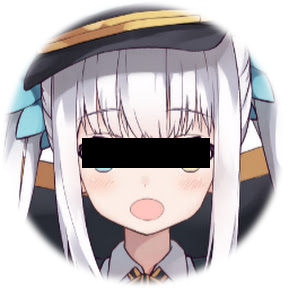
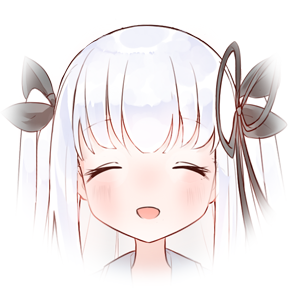
素材替换

diff --git a/src/Container.vue b/src/Container.vue
@@ -3,38 +3,107 @@
     <el-header style="text-align: right;">
       <div class="side-logo"></div>
       <a href="https://afdian.net/@aliceliveman" class="patron" target="_black">
-          <img src="./assets/mea.png" class="mea" width="48" height="48"/>
-          <span>你好，<br/>我很可爱！</span>
+        <img src="./assets/mea.png" class="mea" width="60" height="60">
+        <span>你好，
+          <br>我很可爱！
+        </span>
       </a>
       <a href="https://vtuber.magictea.cc/" class="patron" target="_black">
-          <img src="./assets/magictea.png" height="54"/>
+        <img src="./assets/magictea.png" height="54">
       </a>
       <!-- <a href="https://www.vultr.com/?ref=7654882" class="patron" target="_black" ><img src="./assets/vultr.png" height="54"></a> -->
       <span>{{account.nickname}}</span>
       <a href="javascript:" title="登出" @click="logout" style="color:#333;">
-        <svg viewBox="0 0 512 512" version="1.1" width="16" height="16" aria-hidden="true"><path fill="currentColor" d="M497 273L329 441c-15 15-41 4.5-41-17v-96H152c-13.3 0-24-10.7-24-24v-96c0-13.3 10.7-24 24-24h136V88c0-21.4 25.9-32 41-17l168 168c9.3 9.4 9.3 24.6 0 34zM192 436v-40c0-6.6-5.4-12-12-12H96c-17.7 0-32-14.3-32-32V160c0-17.7 14.3-32 32-32h84c6.6 0 12-5.4 12-12V76c0-6.6-5.4-12-12-12H96c-53 0-96 43-96 96v192c0 53 43 96 96 96h84c6.6 0 12-5.4 12-12z"></path></svg>
+        <svg viewBox="0 0 512 512" version="1.1" width="16" height="16" aria-hidden="true">
+          <path
+            fill="currentColor"
+            d="M497 273L329 441c-15 15-41 4.5-41-17v-96H152c-13.3 0-24-10.7-24-24v-96c0-13.3 10.7-24 24-24h136V88c0-21.4 25.9-32 41-17l168 168c9.3 9.4 9.3 24.6 0 34zM192 436v-40c0-6.6-5.4-12-12-12H96c-17.7 0-32-14.3-32-32V160c0-17.7 14.3-32 32-32h84c6.6 0 12-5.4 12-12V76c0-6.6-5.4-12-12-12H96c-53 0-96 43-96 96v192c0 53 43 96 96 96h84c6.6 0 12-5.4 12-12z"
+          ></path>
+        </svg>
       </a>
     </el-header>
     <el-container style="background:#333;height: 100%;">
       <el-aside width="200px">
-        <el-menu router :default-active="$route.path" background-color="#333" text-color="rgba(255, 255, 255, 0.65)" active-text-color="#fff">
-          <el-menu-item index="/main/broadcast"><svg aria-hidden="true" viewBox="0 0 640 512" version="1.1" width="16" height="16"><path fill="currentColor" d="M150.94 192h33.73c11.01 0 18.61-10.83 14.86-21.18-4.93-13.58-7.55-27.98-7.55-42.82s2.62-29.24 7.55-42.82C203.29 74.83 195.68 64 184.67 64h-33.73c-7.01 0-13.46 4.49-15.41 11.23C130.64 92.21 128 109.88 128 128c0 18.12 2.64 35.79 7.54 52.76 1.94 6.74 8.39 11.24 15.4 11.24zM89.92 23.34C95.56 12.72 87.97 0 75.96 0H40.63c-6.27 0-12.14 3.59-14.74 9.31C9.4 45.54 0 85.65 0 128c0 24.75 3.12 68.33 26.69 118.86 2.62 5.63 8.42 9.14 14.61 9.14h34.84c12.02 0 19.61-12.74 13.95-23.37-49.78-93.32-16.71-178.15-.17-209.29zM614.06 9.29C611.46 3.58 605.6 0 599.33 0h-35.42c-11.98 0-19.66 12.66-14.02 23.25 18.27 34.29 48.42 119.42.28 209.23-5.72 10.68 1.8 23.52 13.91 23.52h35.23c6.27 0 12.13-3.58 14.73-9.29C630.57 210.48 640 170.36 640 128s-9.42-82.48-25.94-118.71zM489.06 64h-33.73c-11.01 0-18.61 10.83-14.86 21.18 4.93 13.58 7.55 27.98 7.55 42.82s-2.62 29.24-7.55 42.82c-3.76 10.35 3.85 21.18 14.86 21.18h33.73c7.02 0 13.46-4.49 15.41-11.24 4.9-16.97 7.53-34.64 7.53-52.76 0-18.12-2.64-35.79-7.54-52.76-1.94-6.75-8.39-11.24-15.4-11.24zm-116.3 100.12c7.05-10.29 11.2-22.71 11.2-36.12 0-35.35-28.63-64-63.96-64-35.32 0-63.96 28.65-63.96 64 0 13.41 4.15 25.83 11.2 36.12l-130.5 313.41c-3.4 8.15.46 17.52 8.61 20.92l29.51 12.31c8.15 3.4 17.52-.46 20.91-8.61L244.96 384h150.07l49.2 118.15c3.4 8.16 12.76 12.01 20.91 8.61l29.51-12.31c8.15-3.4 12-12.77 8.61-20.92l-130.5-313.41zM271.62 320L320 203.81 368.38 320h-96.76z"></path></svg><span>推流任务</span></el-menu-item>
-          <el-menu-item index="/main/channel"><svg aria-hidden="true" viewBox="0 0 576 512" version="1.1" width="16" height="16"><path fill="currentColor" d="M549.655 124.083c-6.281-23.65-24.787-42.276-48.284-48.597C458.781 64 288 64 288 64S117.22 64 74.629 75.486c-23.497 6.322-42.003 24.947-48.284 48.597-11.412 42.867-11.412 132.305-11.412 132.305s0 89.438 11.412 132.305c6.281 23.65 24.787 41.5 48.284 47.821C117.22 448 288 448 288 448s170.78 0 213.371-11.486c23.497-6.321 42.003-24.171 48.284-47.821 11.412-42.867 11.412-132.305 11.412-132.305s0-89.438-11.412-132.305zm-317.51 213.508V175.185l142.739 81.205-142.739 81.201z"></path></svg><span>频道管理</span></el-menu-item>
-          <el-menu-item index="/main/account"><svg aria-hidden="true" viewBox="0 0 576 512" version="1.1" width="16" height="16"><path fill="currentColor" d="M528 32H48C21.5 32 0 53.5 0 80v352c0 26.5 21.5 48 48 48h480c26.5 0 48-21.5 48-48V80c0-26.5-21.5-48-48-48zm0 400H48V80h480v352zM208 256c35.3 0 64-28.7 64-64s-28.7-64-64-64-64 28.7-64 64 28.7 64 64 64zm-89.6 128h179.2c12.4 0 22.4-8.6 22.4-19.2v-19.2c0-31.8-30.1-57.6-67.2-57.6-10.8 0-18.7 8-44.8 8-26.9 0-33.4-8-44.8-8-37.1 0-67.2 25.8-67.2 57.6v19.2c0 10.6 10 19.2 22.4 19.2zM360 320h112c4.4 0 8-3.6 8-8v-16c0-4.4-3.6-8-8-8H360c-4.4 0-8 3.6-8 8v16c0 4.4 3.6 8 8 8zm0-64h112c4.4 0 8-3.6 8-8v-16c0-4.4-3.6-8-8-8H360c-4.4 0-8 3.6-8 8v16c0 4.4 3.6 8 8 8zm0-64h112c4.4 0 8-3.6 8-8v-16c0-4.4-3.6-8-8-8H360c-4.4 0-8 3.6-8 8v16c0 4.4 3.6 8 8 8z"></path></svg><span>账号管理</span></el-menu-item>
-          <el-menu-item v-if="account.admin" index="/main/system"><svg aria-hidden="true" viewBox="0 0 640 512" version="1.1" width="16" height="16"><path fill="currentColor" d="M512.1 191l-8.2 14.3c-3 5.3-9.4 7.5-15.1 5.4-11.8-4.4-22.6-10.7-32.1-18.6-4.6-3.8-5.8-10.5-2.8-15.7l8.2-14.3c-6.9-8-12.3-17.3-15.9-27.4h-16.5c-6 0-11.2-4.3-12.2-10.3-2-12-2.1-24.6 0-37.1 1-6 6.2-10.4 12.2-10.4h16.5c3.6-10.1 9-19.4 15.9-27.4l-8.2-14.3c-3-5.2-1.9-11.9 2.8-15.7 9.5-7.9 20.4-14.2 32.1-18.6 5.7-2.1 12.1.1 15.1 5.4l8.2 14.3c10.5-1.9 21.2-1.9 31.7 0L552 6.3c3-5.3 9.4-7.5 15.1-5.4 11.8 4.4 22.6 10.7 32.1 18.6 4.6 3.8 5.8 10.5 2.8 15.7l-8.2 14.3c6.9 8 12.3 17.3 15.9 27.4h16.5c6 0 11.2 4.3 12.2 10.3 2 12 2.1 24.6 0 37.1-1 6-6.2 10.4-12.2 10.4h-16.5c-3.6 10.1-9 19.4-15.9 27.4l8.2 14.3c3 5.2 1.9 11.9-2.8 15.7-9.5 7.9-20.4 14.2-32.1 18.6-5.7 2.1-12.1-.1-15.1-5.4l-8.2-14.3c-10.4 1.9-21.2 1.9-31.7 0zm-10.5-58.8c38.5 29.6 82.4-14.3 52.8-52.8-38.5-29.7-82.4 14.3-52.8 52.8zM386.3 286.1l33.7 16.8c10.1 5.8 14.5 18.1 10.5 29.1-8.9 24.2-26.4 46.4-42.6 65.8-7.4 8.9-20.2 11.1-30.3 5.3l-29.1-16.8c-16 13.7-34.6 24.6-54.9 31.7v33.6c0 11.6-8.3 21.6-19.7 23.6-24.6 4.2-50.4 4.4-75.9 0-11.5-2-20-11.9-20-23.6V418c-20.3-7.2-38.9-18-54.9-31.7L74 403c-10 5.8-22.9 3.6-30.3-5.3-16.2-19.4-33.3-41.6-42.2-65.7-4-10.9.4-23.2 10.5-29.1l33.3-16.8c-3.9-20.9-3.9-42.4 0-63.4L12 205.8c-10.1-5.8-14.6-18.1-10.5-29 8.9-24.2 26-46.4 42.2-65.8 7.4-8.9 20.2-11.1 30.3-5.3l29.1 16.8c16-13.7 34.6-24.6 54.9-31.7V57.1c0-11.5 8.2-21.5 19.6-23.5 24.6-4.2 50.5-4.4 76-.1 11.5 2 20 11.9 20 23.6v33.6c20.3 7.2 38.9 18 54.9 31.7l29.1-16.8c10-5.8 22.9-3.6 30.3 5.3 16.2 19.4 33.2 41.6 42.1 65.8 4 10.9.1 23.2-10 29.1l-33.7 16.8c3.9 21 3.9 42.5 0 63.5zm-117.6 21.1c59.2-77-28.7-164.9-105.7-105.7-59.2 77 28.7 164.9 105.7 105.7zm243.4 182.7l-8.2 14.3c-3 5.3-9.4 7.5-15.1 5.4-11.8-4.4-22.6-10.7-32.1-18.6-4.6-3.8-5.8-10.5-2.8-15.7l8.2-14.3c-6.9-8-12.3-17.3-15.9-27.4h-16.5c-6 0-11.2-4.3-12.2-10.3-2-12-2.1-24.6 0-37.1 1-6 6.2-10.4 12.2-10.4h16.5c3.6-10.1 9-19.4 15.9-27.4l-8.2-14.3c-3-5.2-1.9-11.9 2.8-15.7 9.5-7.9 20.4-14.2 32.1-18.6 5.7-2.1 12.1.1 15.1 5.4l8.2 14.3c10.5-1.9 21.2-1.9 31.7 0l8.2-14.3c3-5.3 9.4-7.5 15.1-5.4 11.8 4.4 22.6 10.7 32.1 18.6 4.6 3.8 5.8 10.5 2.8 15.7l-8.2 14.3c6.9 8 12.3 17.3 15.9 27.4h16.5c6 0 11.2 4.3 12.2 10.3 2 12 2.1 24.6 0 37.1-1 6-6.2 10.4-12.2 10.4h-16.5c-3.6 10.1-9 19.4-15.9 27.4l8.2 14.3c3 5.2 1.9 11.9-2.8 15.7-9.5 7.9-20.4 14.2-32.1 18.6-5.7 2.1-12.1-.1-15.1-5.4l-8.2-14.3c-10.4 1.9-21.2 1.9-31.7 0zM501.6 431c38.5 29.6 82.4-14.3 52.8-52.8-38.5-29.6-82.4 14.3-52.8 52.8z"></path></svg><span>系统设置</span></el-menu-item>
-          <el-menu-item v-if="account.admin" index="/main/server"><svg aria-hidden="true" viewBox="0 0 512 512" version="1.1" width="16" height="16"><path fill="currentColor" d="M480 160H32c-17.673 0-32-14.327-32-32V64c0-17.673 14.327-32 32-32h448c17.673 0 32 14.327 32 32v64c0 17.673-14.327 32-32 32zm-48-88c-13.255 0-24 10.745-24 24s10.745 24 24 24 24-10.745 24-24-10.745-24-24-24zm-64 0c-13.255 0-24 10.745-24 24s10.745 24 24 24 24-10.745 24-24-10.745-24-24-24zm112 248H32c-17.673 0-32-14.327-32-32v-64c0-17.673 14.327-32 32-32h448c17.673 0 32 14.327 32 32v64c0 17.673-14.327 32-32 32zm-48-88c-13.255 0-24 10.745-24 24s10.745 24 24 24 24-10.745 24-24-10.745-24-24-24zm-64 0c-13.255 0-24 10.745-24 24s10.745 24 24 24 24-10.745 24-24-10.745-24-24-24zm112 248H32c-17.673 0-32-14.327-32-32v-64c0-17.673 14.327-32 32-32h448c17.673 0 32 14.327 32 32v64c0 17.673-14.327 32-32 32zm-48-88c-13.255 0-24 10.745-24 24s10.745 24 24 24 24-10.745 24-24-10.745-24-24-24zm-64 0c-13.255 0-24 10.745-24 24s10.745 24 24 24 24-10.745 24-24-10.745-24-24-24z"></path></svg><span>转播服务器管理</span></el-menu-item>
+        <el-menu
+          router
+          :default-active="$route.path"
+          background-color="#333"
+          text-color="rgba(255, 255, 255, 0.65)"
+          active-text-color="#fff"
+        >
+          <el-menu-item index="/main/broadcast">
+            <svg aria-hidden="true" viewBox="0 0 640 512" version="1.1" width="16" height="16">
+              <path
+                fill="currentColor"
+                d="M150.94 192h33.73c11.01 0 18.61-10.83 14.86-21.18-4.93-13.58-7.55-27.98-7.55-42.82s2.62-29.24 7.55-42.82C203.29 74.83 195.68 64 184.67 64h-33.73c-7.01 0-13.46 4.49-15.41 11.23C130.64 92.21 128 109.88 128 128c0 18.12 2.64 35.79 7.54 52.76 1.94 6.74 8.39 11.24 15.4 11.24zM89.92 23.34C95.56 12.72 87.97 0 75.96 0H40.63c-6.27 0-12.14 3.59-14.74 9.31C9.4 45.54 0 85.65 0 128c0 24.75 3.12 68.33 26.69 118.86 2.62 5.63 8.42 9.14 14.61 9.14h34.84c12.02 0 19.61-12.74 13.95-23.37-49.78-93.32-16.71-178.15-.17-209.29zM614.06 9.29C611.46 3.58 605.6 0 599.33 0h-35.42c-11.98 0-19.66 12.66-14.02 23.25 18.27 34.29 48.42 119.42.28 209.23-5.72 10.68 1.8 23.52 13.91 23.52h35.23c6.27 0 12.13-3.58 14.73-9.29C630.57 210.48 640 170.36 640 128s-9.42-82.48-25.94-118.71zM489.06 64h-33.73c-11.01 0-18.61 10.83-14.86 21.18 4.93 13.58 7.55 27.98 7.55 42.82s-2.62 29.24-7.55 42.82c-3.76 10.35 3.85 21.18 14.86 21.18h33.73c7.02 0 13.46-4.49 15.41-11.24 4.9-16.97 7.53-34.64 7.53-52.76 0-18.12-2.64-35.79-7.54-52.76-1.94-6.75-8.39-11.24-15.4-11.24zm-116.3 100.12c7.05-10.29 11.2-22.71 11.2-36.12 0-35.35-28.63-64-63.96-64-35.32 0-63.96 28.65-63.96 64 0 13.41 4.15 25.83 11.2 36.12l-130.5 313.41c-3.4 8.15.46 17.52 8.61 20.92l29.51 12.31c8.15 3.4 17.52-.46 20.91-8.61L244.96 384h150.07l49.2 118.15c3.4 8.16 12.76 12.01 20.91 8.61l29.51-12.31c8.15-3.4 12-12.77 8.61-20.92l-130.5-313.41zM271.62 320L320 203.81 368.38 320h-96.76z"
+              ></path>
+            </svg>
+            <span>推流任务</span>
+          </el-menu-item>
+          <el-menu-item index="/main/channel">
+            <svg aria-hidden="true" viewBox="0 0 576 512" version="1.1" width="16" height="16">
+              <path
+                fill="currentColor"
+                d="M549.655 124.083c-6.281-23.65-24.787-42.276-48.284-48.597C458.781 64 288 64 288 64S117.22 64 74.629 75.486c-23.497 6.322-42.003 24.947-48.284 48.597-11.412 42.867-11.412 132.305-11.412 132.305s0 89.438 11.412 132.305c6.281 23.65 24.787 41.5 48.284 47.821C117.22 448 288 448 288 448s170.78 0 213.371-11.486c23.497-6.321 42.003-24.171 48.284-47.821 11.412-42.867 11.412-132.305 11.412-132.305s0-89.438-11.412-132.305zm-317.51 213.508V175.185l142.739 81.205-142.739 81.201z"
+              ></path>
+            </svg>
+            <span>频道管理</span>
+          </el-menu-item>
+          <el-menu-item index="/main/account">
+            <svg aria-hidden="true" viewBox="0 0 576 512" version="1.1" width="16" height="16">
+              <path
+                fill="currentColor"
+                d="M528 32H48C21.5 32 0 53.5 0 80v352c0 26.5 21.5 48 48 48h480c26.5 0 48-21.5 48-48V80c0-26.5-21.5-48-48-48zm0 400H48V80h480v352zM208 256c35.3 0 64-28.7 64-64s-28.7-64-64-64-64 28.7-64 64 28.7 64 64 64zm-89.6 128h179.2c12.4 0 22.4-8.6 22.4-19.2v-19.2c0-31.8-30.1-57.6-67.2-57.6-10.8 0-18.7 8-44.8 8-26.9 0-33.4-8-44.8-8-37.1 0-67.2 25.8-67.2 57.6v19.2c0 10.6 10 19.2 22.4 19.2zM360 320h112c4.4 0 8-3.6 8-8v-16c0-4.4-3.6-8-8-8H360c-4.4 0-8 3.6-8 8v16c0 4.4 3.6 8 8 8zm0-64h112c4.4 0 8-3.6 8-8v-16c0-4.4-3.6-8-8-8H360c-4.4 0-8 3.6-8 8v16c0 4.4 3.6 8 8 8zm0-64h112c4.4 0 8-3.6 8-8v-16c0-4.4-3.6-8-8-8H360c-4.4 0-8 3.6-8 8v16c0 4.4 3.6 8 8 8z"
+              ></path>
+            </svg>
+            <span>账号管理</span>
+          </el-menu-item>
+          <el-menu-item v-if="account.admin" index="/main/system">
+            <svg aria-hidden="true" viewBox="0 0 640 512" version="1.1" width="16" height="16">
+              <path
+                fill="currentColor"
+                d="M512.1 191l-8.2 14.3c-3 5.3-9.4 7.5-15.1 5.4-11.8-4.4-22.6-10.7-32.1-18.6-4.6-3.8-5.8-10.5-2.8-15.7l8.2-14.3c-6.9-8-12.3-17.3-15.9-27.4h-16.5c-6 0-11.2-4.3-12.2-10.3-2-12-2.1-24.6 0-37.1 1-6 6.2-10.4 12.2-10.4h16.5c3.6-10.1 9-19.4 15.9-27.4l-8.2-14.3c-3-5.2-1.9-11.9 2.8-15.7 9.5-7.9 20.4-14.2 32.1-18.6 5.7-2.1 12.1.1 15.1 5.4l8.2 14.3c10.5-1.9 21.2-1.9 31.7 0L552 6.3c3-5.3 9.4-7.5 15.1-5.4 11.8 4.4 22.6 10.7 32.1 18.6 4.6 3.8 5.8 10.5 2.8 15.7l-8.2 14.3c6.9 8 12.3 17.3 15.9 27.4h16.5c6 0 11.2 4.3 12.2 10.3 2 12 2.1 24.6 0 37.1-1 6-6.2 10.4-12.2 10.4h-16.5c-3.6 10.1-9 19.4-15.9 27.4l8.2 14.3c3 5.2 1.9 11.9-2.8 15.7-9.5 7.9-20.4 14.2-32.1 18.6-5.7 2.1-12.1-.1-15.1-5.4l-8.2-14.3c-10.4 1.9-21.2 1.9-31.7 0zm-10.5-58.8c38.5 29.6 82.4-14.3 52.8-52.8-38.5-29.7-82.4 14.3-52.8 52.8zM386.3 286.1l33.7 16.8c10.1 5.8 14.5 18.1 10.5 29.1-8.9 24.2-26.4 46.4-42.6 65.8-7.4 8.9-20.2 11.1-30.3 5.3l-29.1-16.8c-16 13.7-34.6 24.6-54.9 31.7v33.6c0 11.6-8.3 21.6-19.7 23.6-24.6 4.2-50.4 4.4-75.9 0-11.5-2-20-11.9-20-23.6V418c-20.3-7.2-38.9-18-54.9-31.7L74 403c-10 5.8-22.9 3.6-30.3-5.3-16.2-19.4-33.3-41.6-42.2-65.7-4-10.9.4-23.2 10.5-29.1l33.3-16.8c-3.9-20.9-3.9-42.4 0-63.4L12 205.8c-10.1-5.8-14.6-18.1-10.5-29 8.9-24.2 26-46.4 42.2-65.8 7.4-8.9 20.2-11.1 30.3-5.3l29.1 16.8c16-13.7 34.6-24.6 54.9-31.7V57.1c0-11.5 8.2-21.5 19.6-23.5 24.6-4.2 50.5-4.4 76-.1 11.5 2 20 11.9 20 23.6v33.6c20.3 7.2 38.9 18 54.9 31.7l29.1-16.8c10-5.8 22.9-3.6 30.3 5.3 16.2 19.4 33.2 41.6 42.1 65.8 4 10.9.1 23.2-10 29.1l-33.7 16.8c3.9 21 3.9 42.5 0 63.5zm-117.6 21.1c59.2-77-28.7-164.9-105.7-105.7-59.2 77 28.7 164.9 105.7 105.7zm243.4 182.7l-8.2 14.3c-3 5.3-9.4 7.5-15.1 5.4-11.8-4.4-22.6-10.7-32.1-18.6-4.6-3.8-5.8-10.5-2.8-15.7l8.2-14.3c-6.9-8-12.3-17.3-15.9-27.4h-16.5c-6 0-11.2-4.3-12.2-10.3-2-12-2.1-24.6 0-37.1 1-6 6.2-10.4 12.2-10.4h16.5c3.6-10.1 9-19.4 15.9-27.4l-8.2-14.3c-3-5.2-1.9-11.9 2.8-15.7 9.5-7.9 20.4-14.2 32.1-18.6 5.7-2.1 12.1.1 15.1 5.4l8.2 14.3c10.5-1.9 21.2-1.9 31.7 0l8.2-14.3c3-5.3 9.4-7.5 15.1-5.4 11.8 4.4 22.6 10.7 32.1 18.6 4.6 3.8 5.8 10.5 2.8 15.7l-8.2 14.3c6.9 8 12.3 17.3 15.9 27.4h16.5c6 0 11.2 4.3 12.2 10.3 2 12 2.1 24.6 0 37.1-1 6-6.2 10.4-12.2 10.4h-16.5c-3.6 10.1-9 19.4-15.9 27.4l8.2 14.3c3 5.2 1.9 11.9-2.8 15.7-9.5 7.9-20.4 14.2-32.1 18.6-5.7 2.1-12.1-.1-15.1-5.4l-8.2-14.3c-10.4 1.9-21.2 1.9-31.7 0zM501.6 431c38.5 29.6 82.4-14.3 52.8-52.8-38.5-29.6-82.4 14.3-52.8 52.8z"
+              ></path>
+            </svg>
+            <span>系统设置</span>
+          </el-menu-item>
+          <el-menu-item v-if="account.admin" index="/main/server">
+            <svg aria-hidden="true" viewBox="0 0 512 512" version="1.1" width="16" height="16">
+              <path
+                fill="currentColor"
+                d="M480 160H32c-17.673 0-32-14.327-32-32V64c0-17.673 14.327-32 32-32h448c17.673 0 32 14.327 32 32v64c0 17.673-14.327 32-32 32zm-48-88c-13.255 0-24 10.745-24 24s10.745 24 24 24 24-10.745 24-24-10.745-24-24-24zm-64 0c-13.255 0-24 10.745-24 24s10.745 24 24 24 24-10.745 24-24-10.745-24-24-24zm112 248H32c-17.673 0-32-14.327-32-32v-64c0-17.673 14.327-32 32-32h448c17.673 0 32 14.327 32 32v64c0 17.673-14.327 32-32 32zm-48-88c-13.255 0-24 10.745-24 24s10.745 24 24 24 24-10.745 24-24-10.745-24-24-24zm-64 0c-13.255 0-24 10.745-24 24s10.745 24 24 24 24-10.745 24-24-10.745-24-24-24zm112 248H32c-17.673 0-32-14.327-32-32v-64c0-17.673 14.327-32 32-32h448c17.673 0 32 14.327 32 32v64c0 17.673-14.327 32-32 32zm-48-88c-13.255 0-24 10.745-24 24s10.745 24 24 24 24-10.745 24-24-10.745-24-24-24zm-64 0c-13.255 0-24 10.745-24 24s10.745 24 24 24 24-10.745 24-24-10.745-24-24-24z"
+              ></path>
+            </svg>
+            <span>转播服务器管理</span>
+          </el-menu-item>
         </el-menu>
       </el-aside>
       <el-container direction="vertical">
         <el-breadcrumb separator="/">
           <el-breadcrumb-item>首页</el-breadcrumb-item>
-          <el-breadcrumb-item><a :href="$route.path">{{$route.name}}</a></el-breadcrumb-item>
+          <el-breadcrumb-item>
+            <a :href="$route.path">{{$route.name}}</a>
+          </el-breadcrumb-item>
         </el-breadcrumb>
         <el-main>
           <div style="min-height:74vh;background-color:#fff;margin:25px 25px 0;padding:30px">
-            <router-view></router-view>  
+            <router-view></router-view>
           </div>
[1 lines of base64/hex data omitted]
+          <el-footer height="50px">
+            <a target="_black" href="https://github.com/nekoteaparty/Alice-LiveMan">
+              <span>Fork on</span>
+              <img
+                width="18"
+                height="18"
+                title
+                alt
[1 lines of base64/hex data omitted]
+              >
+            </a>
+            <div
+              style="position: absolute; top: 17px; right: 26px;"
+            >Alice Website © 2018 - 2019 nekoteaparty</div>
+          </el-footer>
         </el-main>
       </el-container>
     </el-container>
@@ -91,20 +160,27 @@
   color: #333;
   height: 100%;
   padding: 10px 0;
+  background: url(./assets/alice.png) no-repeat center bottom;
 }
 
 .el-menu {
   border: none;
+  background-color: transparent !important;
 }
 
 .el-menu-item {
   height: 40px;
   line-height: 40px;
   margin: 13px 0;
+  background-color: transparent !important;
+}
+
+.el-menu-item:hover {
+  background-color: rgb(31, 31, 31, 0.7) !important;
 }
 
 .el-menu-item.is-active {
-  background-color: #409eff !important;
+  background-color: #44a2ffee !important;
 }
 
 .el-breadcrumb {

diff --git a/src/Login.vue b/src/Login.vue
@@ -47,7 +47,12 @@
       <span class="label-username" slot="prepend">用户名</span>
       <el-input type="password" v-model="password" slot="append">
         <template slot="prepend">密&nbsp;&nbsp;码</template>
-        <el-button type="primary" slot="append" @click="login" v-loading.fullscreen.lock="loading">登录</el-button>
+        <el-button
+          type="primary"
+          slot="append"
+          @click="login"
+          v-loading.fullscreen.lock="loading"
+        >登录</el-button>
       </el-input>
     </el-input>
     <el-tag
@@ -65,10 +70,19 @@
         <el-button type="primary" @click="showCookiesTip=false">确 定</el-button>
       </span>
     </el-dialog>
+    <img class="alice" src="./assets/alice_half_body.jpg">
   </div>
 </template>
 
 <style>
+img.alice {
+    position: fixed;
+    top: 60%;
+    left: 50%;
+    margin-left: -290px;
+    z-index: -1;
+}
+
 .login-center {
   width: 640px;
   height: 320px;
@@ -124,7 +138,6 @@
 .captcha-prompt * {
   vertical-align: middle;
 }
-
 </style>
 
 <script>
@@ -175,7 +188,7 @@ export default {
               );
               this.$router.push({ path: "/main/broadcast" });
             } else {
-              if(response.data.code === -101){
+              if (response.data.code === -101) {
                 this.$prompt(
                   <p class="captcha-prompt">
                     <span>请输入验证码</span>
@@ -197,10 +210,12 @@ export default {
                     inputPattern: /.+/,
                     inputErrorMessage: "请输入验证码"
                   }
-                ).then(({ value }) => {
-                  this.captcha = value;
-                  this.login();
-                }).catch(() => {});
+                )
+                  .then(({ value }) => {
+                    this.captcha = value;
+                    this.login();
+                  })
+                  .catch(() => {});
               }
               this.$message.error(response.data.message);
             }

diff --git a/src/index.html b/src/index.html
@@ -1,6 +1,7 @@
 <!DOCTYPE html>
 <html>
-<base href="/"/>
+<base href="/" />
+
 <head>
   <meta charset="utf-8">
   <title>通用多平台转播姬 - 爱丽丝</title>
